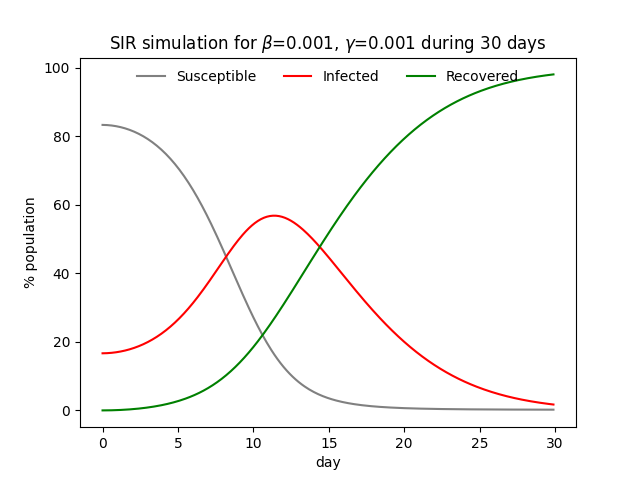
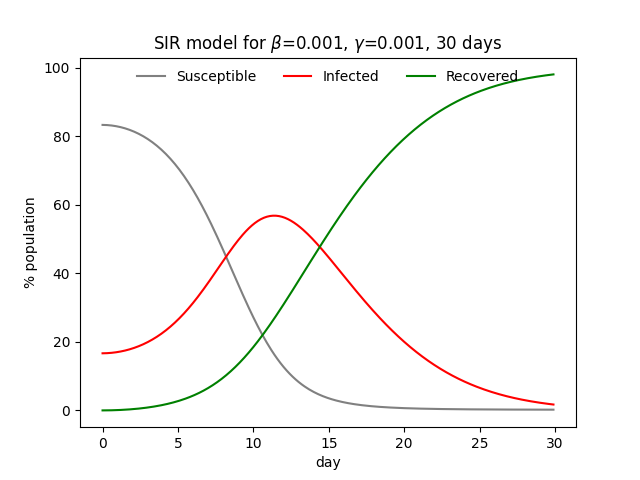
Updated plot title

Changed region(s): [[0.1562, 0.0625, 0.8438, 0.125]]

diff --git a/app.py b/app.py
@@ -65,7 +65,7 @@ class SIR:
 			frameon=False, loc='upper center', ncol=3)
 
 		plt.title(
-			'SIR simulation for $\\beta$={}, $\\gamma$={} during {} days'.format(self.beta, self.gamma, days))
+			'SIR model for $\\beta$={}, $\\gamma$={}, {} days'.format(self.beta, self.gamma, days))
 		plt.savefig(imgfile)
 		
 
